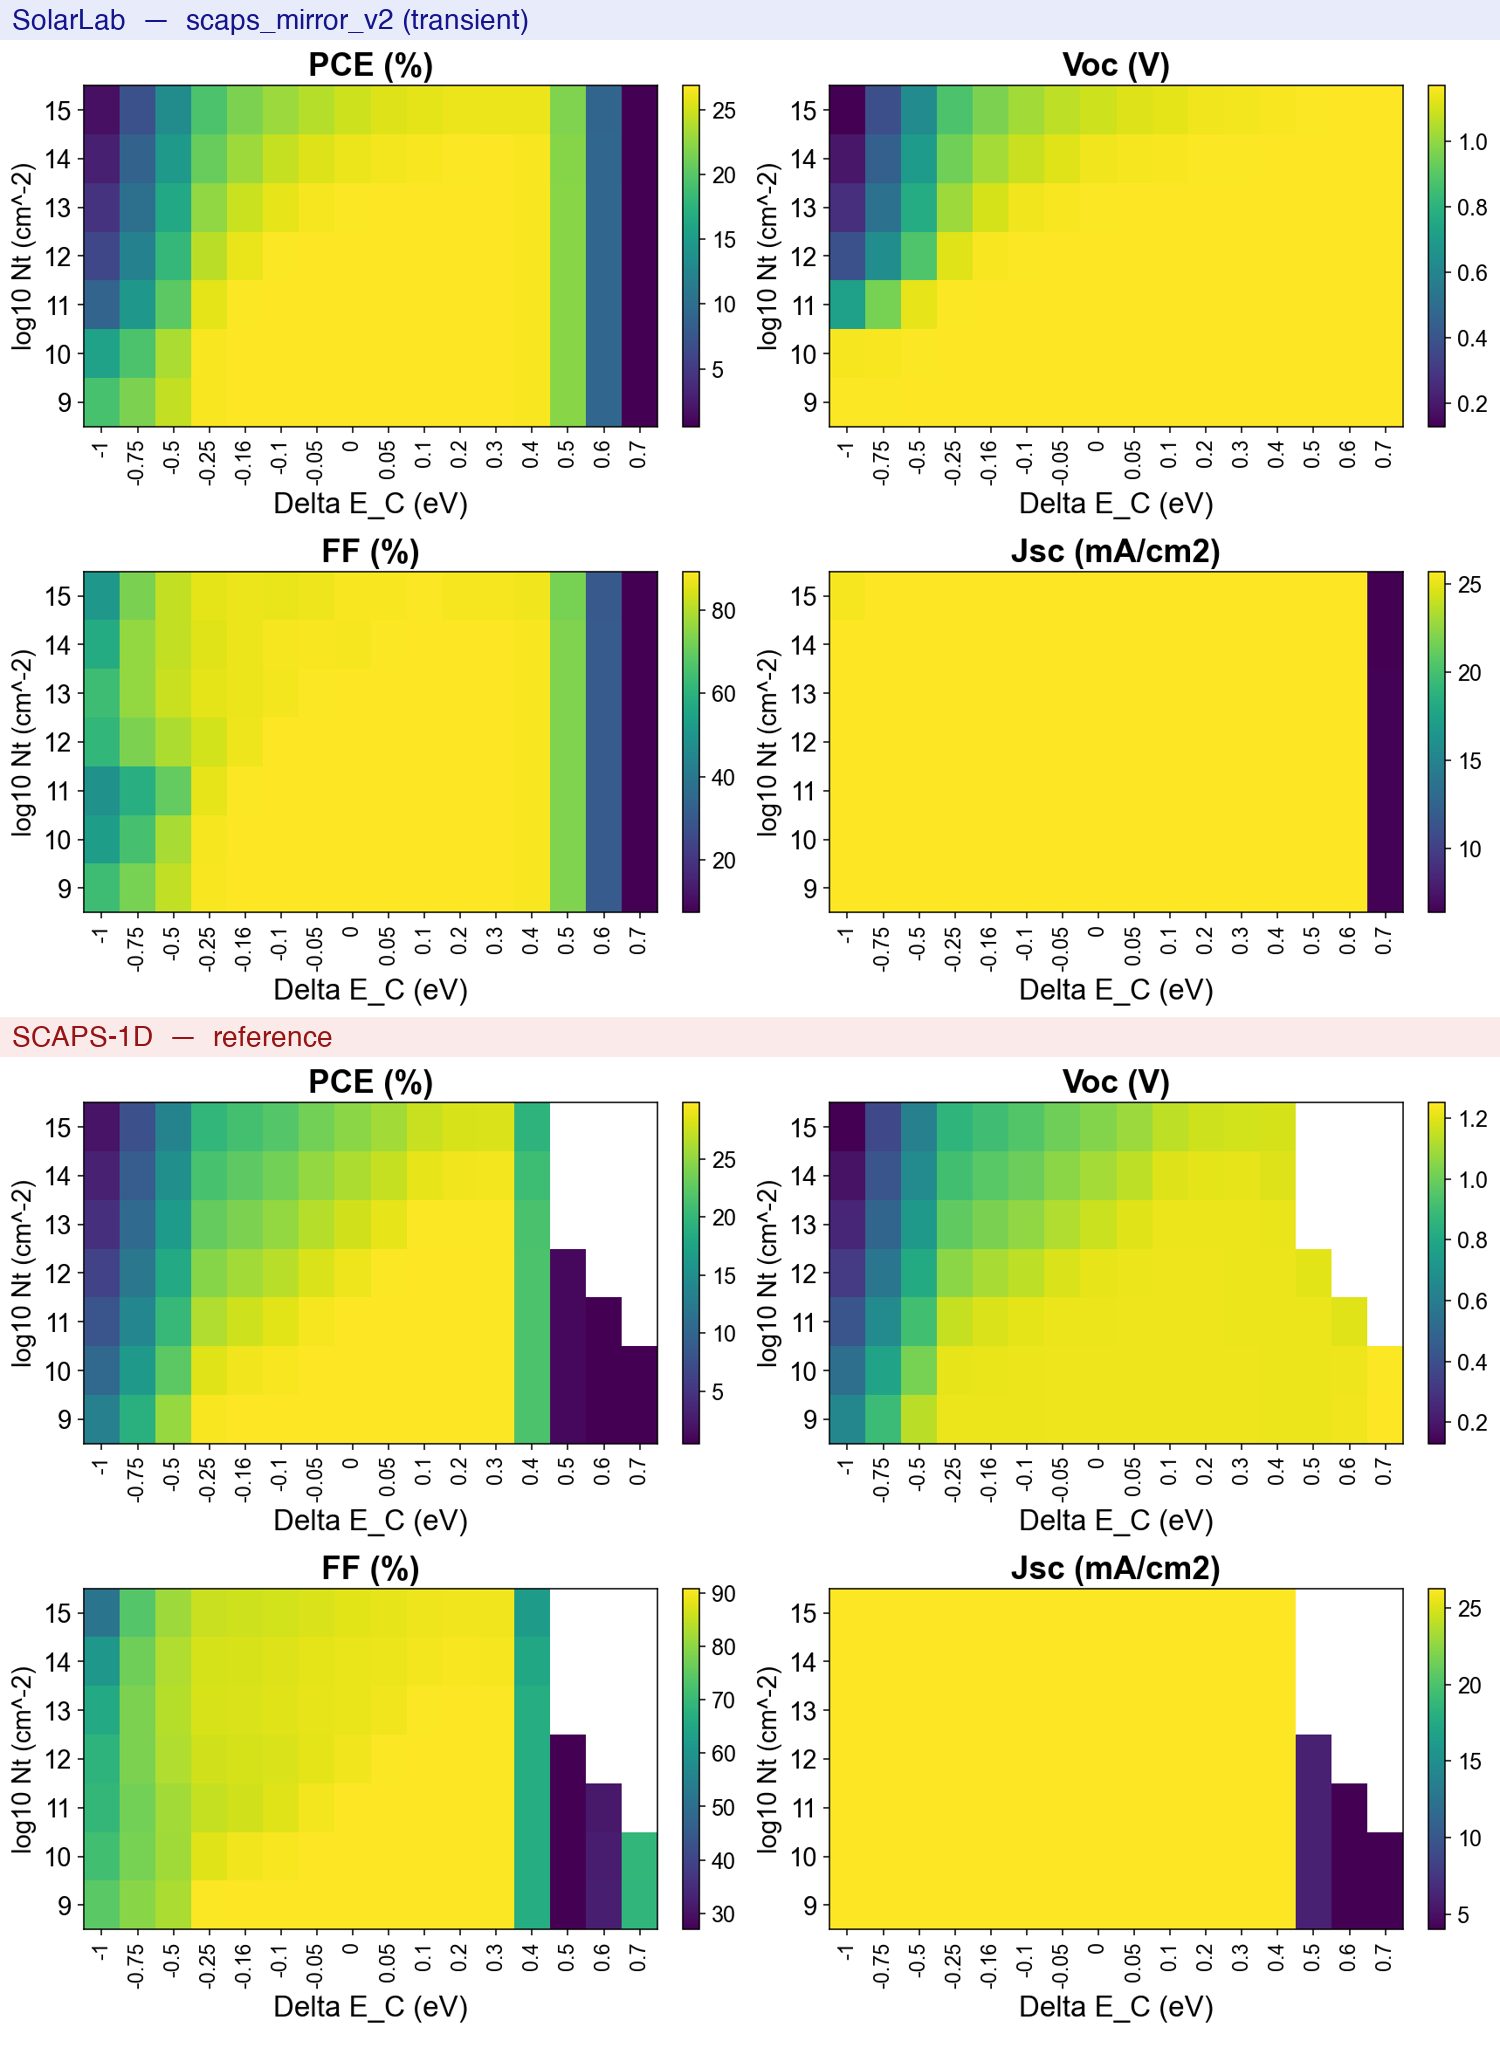
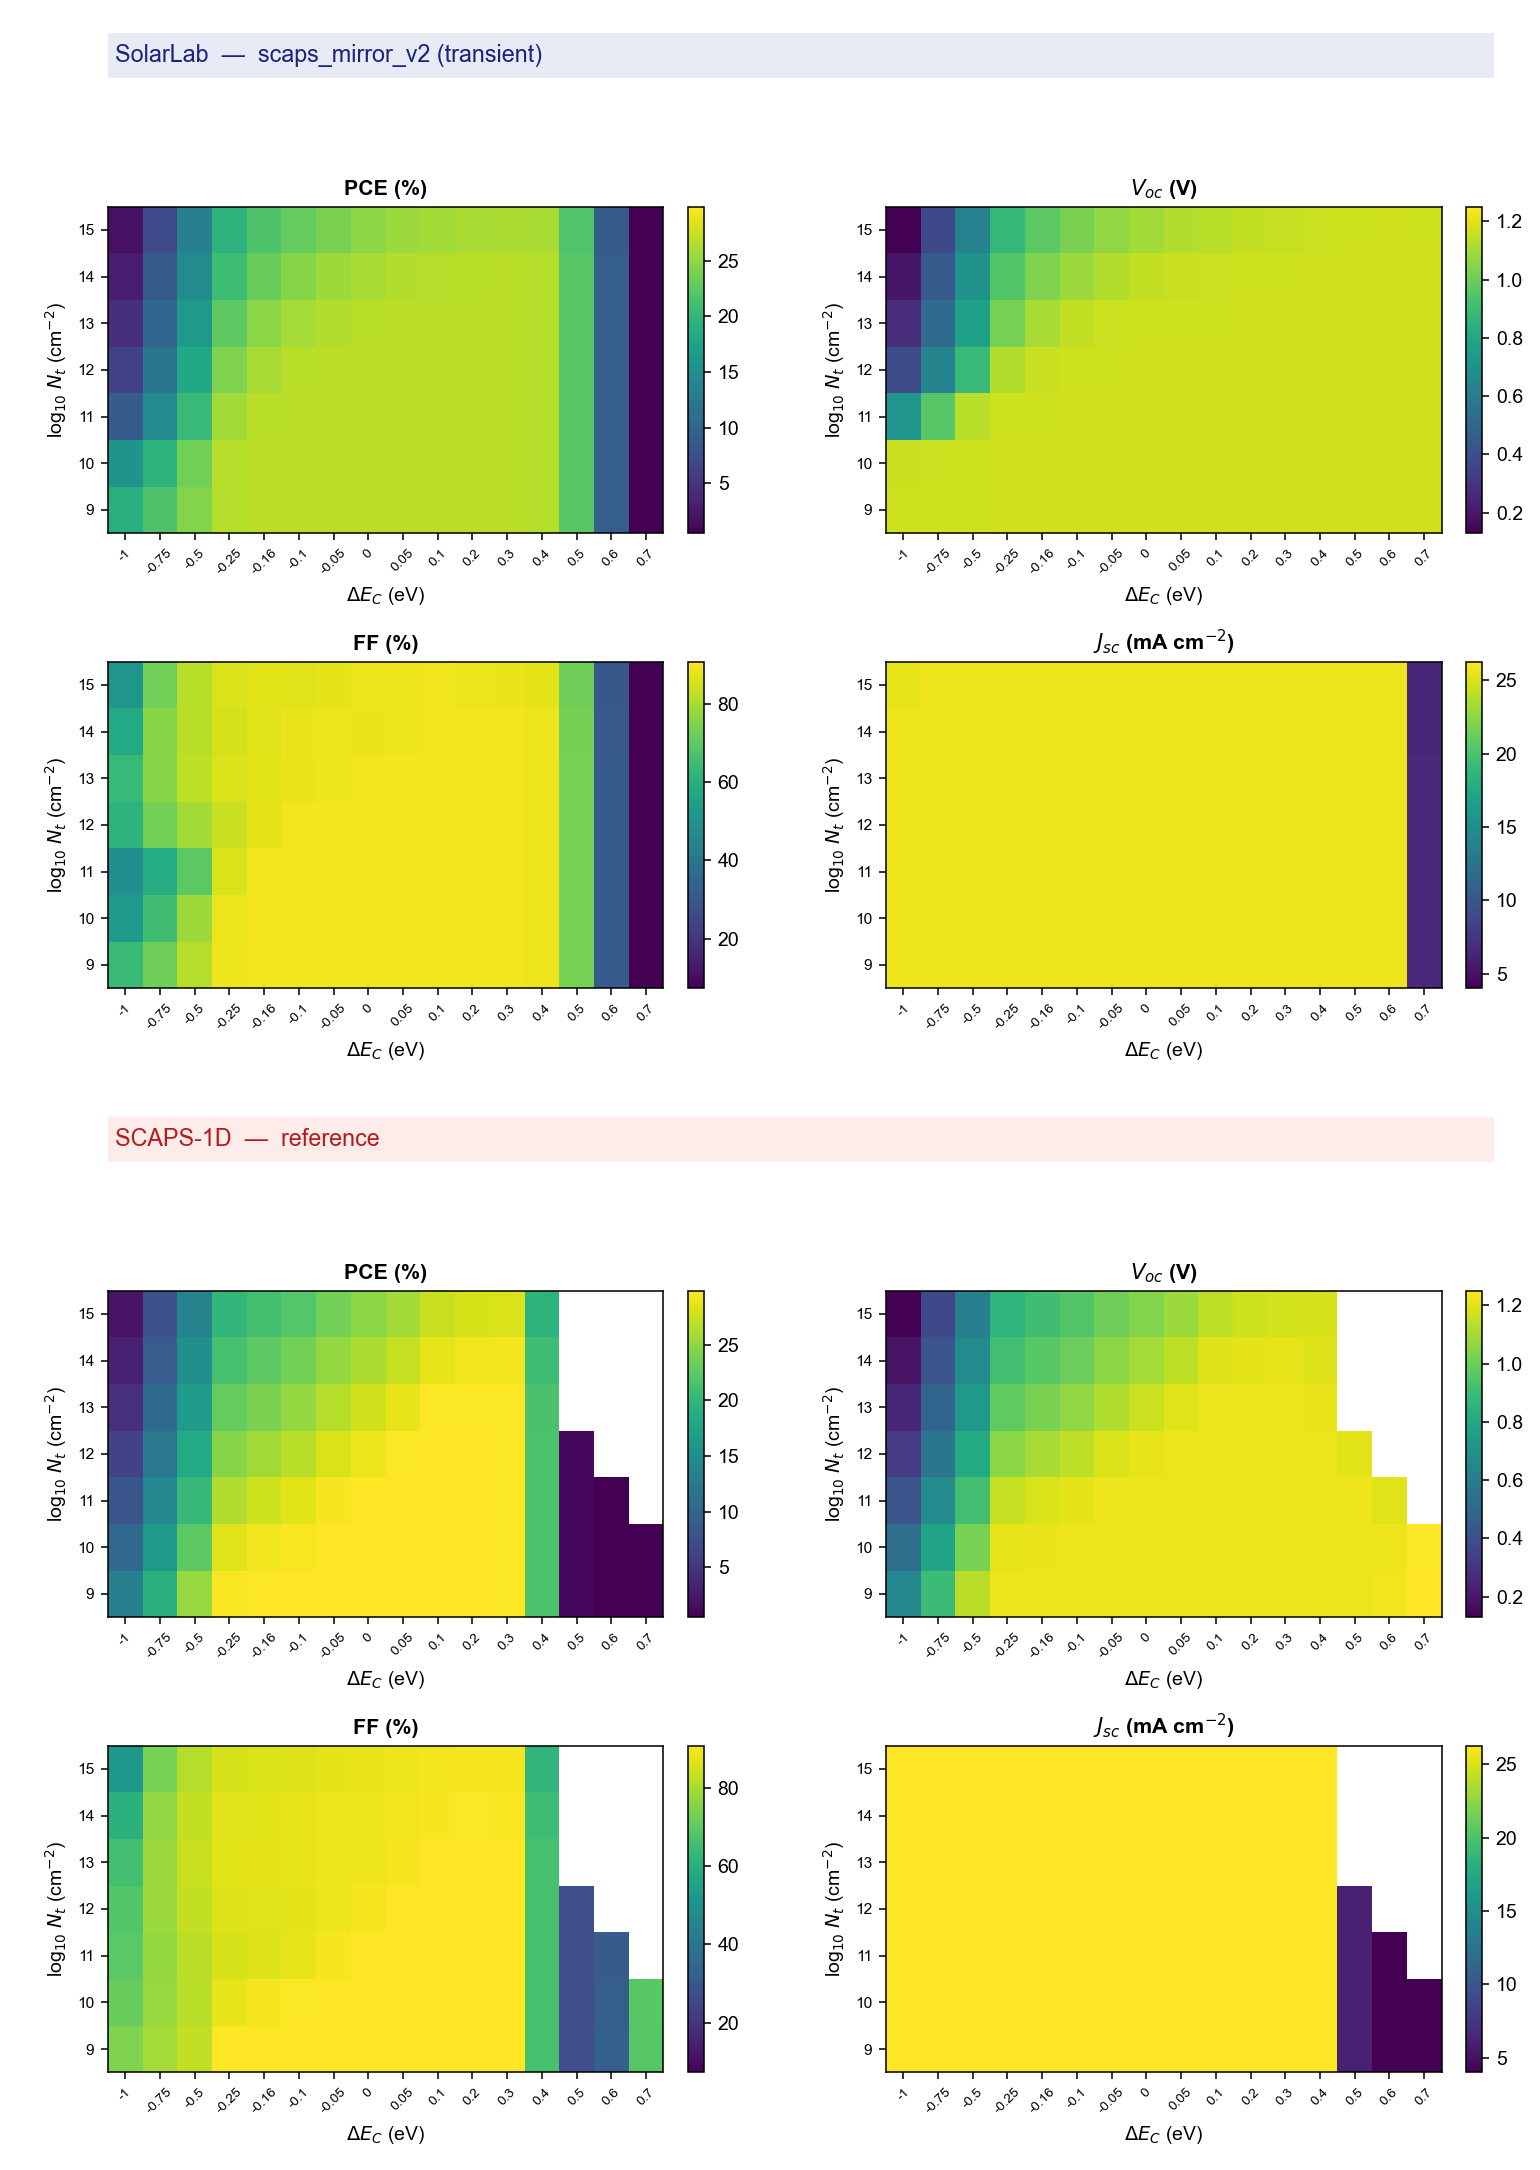
docs(reference): unify colour scales in 2D-scan comparison figures
Each figure of merit now shares one colour scale (union of SolarLab and
SCAPS ranges) across both blocks, so colours are directly comparable
between solvers; previously each panel autoscaled to its own range.
Adds outputs/scan2d/plot_compare.py (the compare-figure generator was
not committed originally), regenerates compare_ntet.png and
compare_ntcbo.png, notes the shared scale in the report methodology,
and rebuilds the PDF (xelatex, Helvetica Neue, matching prior build).

Constraint: systematic offsets (e.g. Scan A Jsc ~0.56 mA/cm2) now render
as whole-panel brightness shifts — intended, shows the offset honestly
Confidence: high
Scope-risk: narrow

diff --git a/outputs/scan2d/plot_compare.py b/outputs/scan2d/plot_compare.py
@@ -1,0 +1,90 @@
+"""Render the SolarLab-vs-SCAPS 2D-scan comparison figures (compare_ntet.png,
+compare_ntcbo.png) from the cached grids.
+
+Each figure stacks the SolarLab 4-panel block over the SCAPS-1D 4-panel block.
+For every figure of merit the two blocks share one colour scale (vmin/vmax =
+union of both grids) so colours are directly comparable between solvers; the
+unresolved SCAPS cells (NaN) stay white.
+
+Inputs : scan2d_results.json (SolarLab, from scan2d.py), scaps_digitized.json
+Outputs: compare_ntet.png, compare_ntcbo.png
+"""
+import json
+from pathlib import Path
+
+import numpy as np
+import matplotlib
+
+matplotlib.use("Agg")
+import matplotlib.pyplot as plt
+
+OUT = Path(__file__).resolve().parent
+METRICS = ("PCE", "Voc", "FF", "Jsc")
+PANEL_LABELS = ("PCE (%)", "$V_{oc}$ (V)", "FF (%)", "$J_{sc}$ (mA cm$^{-2}$)")
+LOGN = [9, 10, 11, 12, 13, 14, 15]
+
+plt.rcParams["font.family"] = ["Arial", "DejaVu Sans"]
+
+
+def load_grids():
+    sl = json.loads((OUT / "scan2d_results.json").read_text())
+    sc = json.loads((OUT / "scaps_digitized.json").read_text())
+    to_arr = lambda block: {k: np.array(block[k], float) for k in METRICS}
+    return {
+        "ntet": (to_arr(sl["ntet"]), to_arr(sc["A"]), sl["ET"], "Defect energy $E_t$ (eV)"),
+        "ntcbo": (to_arr(sl["ntcbo"]), to_arr(sc["B"]), sl["DEC"], "$\\Delta E_C$ (eV)"),
+    }
+
+
+def draw_block(fig, gs, row0, grids, limits, xvals, xlabel):
+    for k, (key, lab) in enumerate(zip(METRICS, PANEL_LABELS)):
+        ax = fig.add_subplot(gs[row0 + k // 2, k % 2])
+        vmin, vmax = limits[key]
+        im = ax.pcolormesh(np.arange(len(xvals) + 1), np.arange(len(LOGN) + 1),
+                           np.ma.masked_invalid(grids[key]),
+                           cmap="viridis", shading="flat", vmin=vmin, vmax=vmax)
+        ax.set_xticks(np.arange(len(xvals)) + 0.5)
+        ax.set_xticklabels([f"{v:g}" for v in xvals], rotation=45, fontsize=7)
+        ax.set_yticks(np.arange(len(LOGN)) + 0.5)
+        ax.set_yticklabels(LOGN, fontsize=8)
+        ax.set_xlabel(xlabel)
+        ax.set_ylabel("log$_{10}$ $N_t$ (cm$^{-2}$)")
+        ax.set_title(lab, fontsize=11, fontweight="bold")
+        fig.colorbar(im, ax=ax, fraction=0.046, pad=0.04)
+
+
+def draw_banner(fig, gs, row, text, fg, bg):
+    ax = fig.add_subplot(gs[row, :])
+    ax.set_facecolor(bg)
+    ax.set_xticks([])
+    ax.set_yticks([])
+    for spine in ax.spines.values():
+        spine.set_visible(False)
+    ax.text(0.005, 0.5, text, color=fg, fontsize=12, va="center", ha="left",
+            transform=ax.transAxes)
+
+
+def compare_figure(sl, sc, xvals, xlabel, fname):
+    limits = {k: (float(min(np.nanmin(sl[k]), np.nanmin(sc[k]))),
+                  float(max(np.nanmax(sl[k]), np.nanmax(sc[k])))) for k in METRICS}
+    fig = plt.figure(figsize=(11, 15.5))
+    gs = fig.add_gridspec(6, 2, height_ratios=[0.14, 1, 1, 0.14, 1, 1],
+                          hspace=0.55, wspace=0.28,
+                          left=0.07, right=0.97, top=0.985, bottom=0.045)
+    draw_banner(fig, gs, 0, "SolarLab  —  scaps_mirror_v2 (transient)",
+                fg="#1a237e", bg="#e8eaf6")
+    draw_block(fig, gs, 1, sl, limits, xvals, xlabel)
+    draw_banner(fig, gs, 3, "SCAPS-1D  —  reference",
+                fg="#b71c1c", bg="#fdecea")
+    draw_block(fig, gs, 4, sc, limits, xvals, xlabel)
+    fig.savefig(OUT / fname, dpi=140)
+    plt.close(fig)
+    print(f"wrote {OUT / fname}")
+    for k in METRICS:
+        print(f"  {k}: shared scale [{limits[k][0]:.4f}, {limits[k][1]:.4f}]")
+
+
+if __name__ == "__main__":
+    for scan, (sl, sc, xvals, xlabel) in load_grids().items():
+        compare_figure(sl, sc, xvals, xlabel,
+                       "compare_ntet.png" if scan == "ntet" else "compare_ntcbo.png")

diff --git a/docs/reference/SolarLab2DScan.md b/docs/reference/SolarLab2DScan.md
@@ -74,7 +74,12 @@ the SCAPS maps.
 For legibility, the SCAPS reference maps are colour-digitised and re-rendered at
 the same scale and font size as the SolarLab maps; the digitisation was validated
 against the reported best-point values and reproduces them to the displayed
-precision (e.g. Scan~A: PCE~$=29.83\,\%$, $V_{oc}=1.250$~V).
+precision (e.g. Scan~A: PCE~$=29.83\,\%$, $V_{oc}=1.250$~V). In each comparison
+figure the SolarLab and SCAPS panels of a given figure of merit share a single
+colour scale spanning the union of the two solvers' ranges, so a colour denotes
+the same value in both blocks; systematic offsets between the solvers (e.g. the
+Scan~A $J_{sc}$ difference of ${\sim}0.56~\mathrm{mA\,cm^{-2}}$) therefore appear
+as overall brightness shifts of a whole panel rather than as rescaled detail.
 
 ```{=latex}
 \clearpage